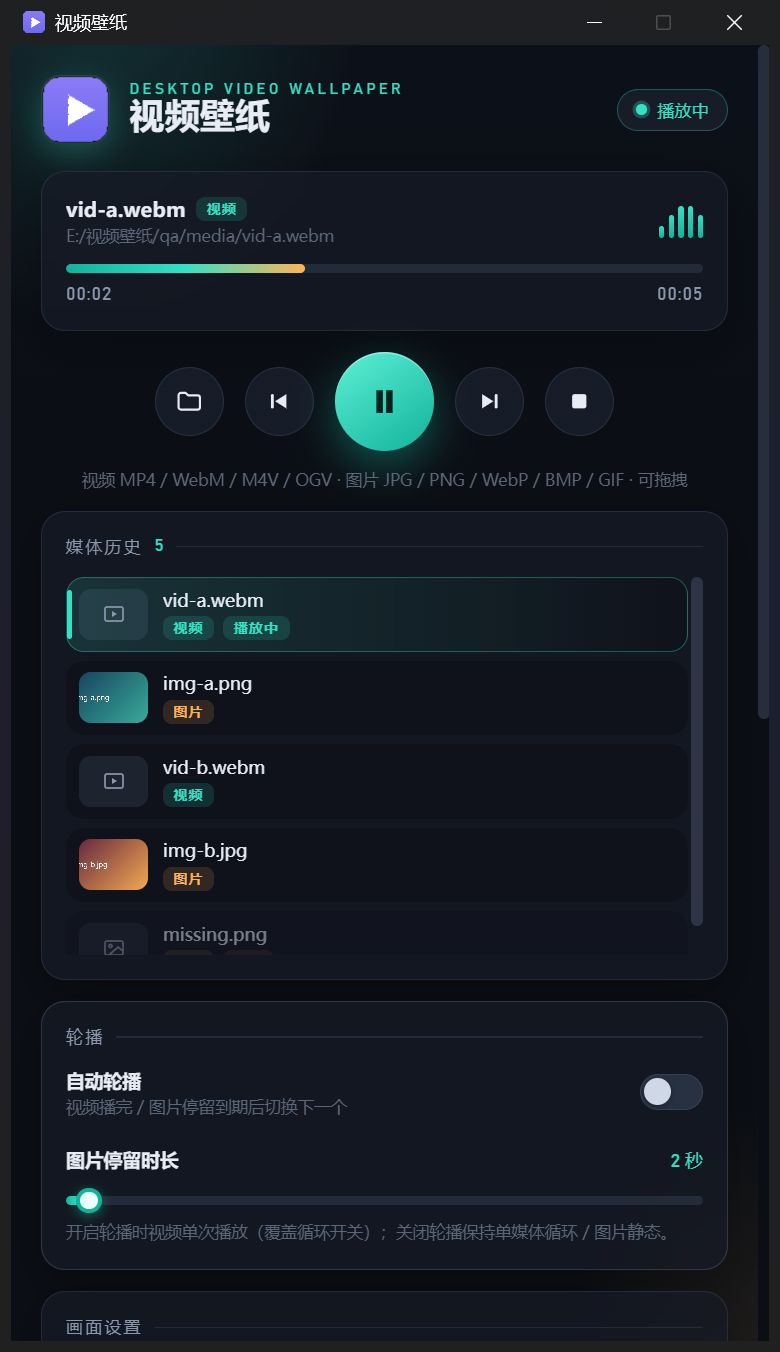
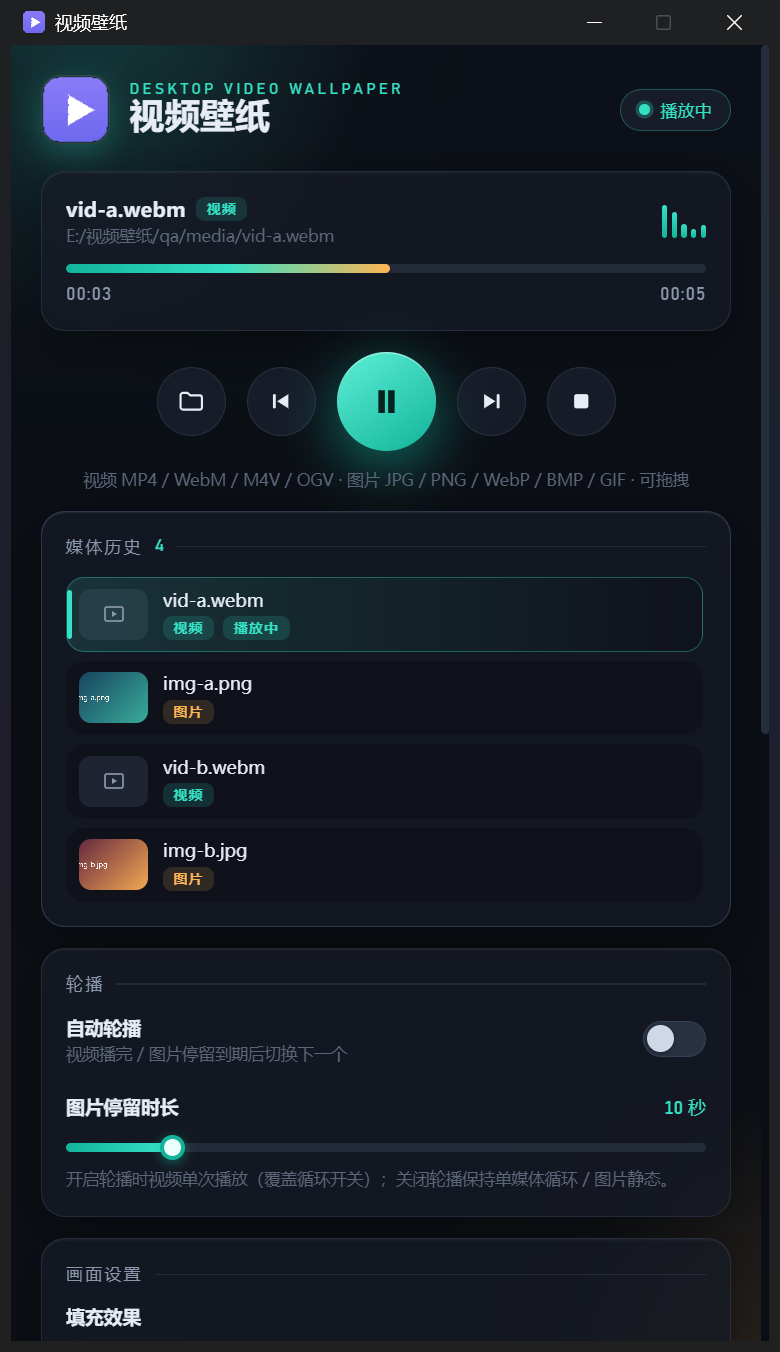
style: 控制面板 UI 润色（弹性动效 / 滑动分段指示 / 环境光）
- 分段选择改为滑动高亮指示块（spring 缓动），替换生硬的即时换色
- 卡片悬浮微抬升 + 内高光、历史项横移与缩略图微缩放、按钮弹性按压
- 播放键呼吸光晕、开关/滑杆/toast 弹性过渡、背景环境光缓慢漂移
- 修复非有限时长显示 Infinity:NaN（改为 --:-- 并 guarded 进度条）
- 更新 docs/screenshot.png 为无隐私数据的干净面板截图

diff --git a/src/control.html b/src/control.html
@@ -185,9 +185,56 @@
   footer b { color: var(--mut); font-weight: 600; }
   .drop-hint { text-align: center; color: var(--dim); font-size: 11px; margin: -6px 0 14px; }
   body.dragover::before { background: radial-gradient(60% 50% at 50% 40%, rgba(53,224,196,.28), transparent 70%); }
+
+  /* ---- 润色：弹性 / 层次 / 环境光 ---- */
+  :root { --spring: cubic-bezier(.34,1.56,.64,1); --ease: cubic-bezier(.2,.7,.2,1); }
+  .ambient { position: fixed; inset: -20%; z-index: -1; pointer-events: none; filter: blur(60px); opacity: .55;
+    background:
+      radial-gradient(38% 30% at 20% 12%, rgba(53,224,196,.14), transparent 70%),
+      radial-gradient(34% 28% at 82% 86%, rgba(255,180,84,.10), transparent 70%);
+    animation: drift 26s ease-in-out infinite alternate; }
+  @keyframes drift { from { transform: translate3d(-2%, -1%, 0) scale(1); } to { transform: translate3d(2%, 2%, 0) scale(1.06); } }
+
+  .card { box-shadow: 0 10px 30px rgba(0,0,0,.28), inset 0 1px 0 rgba(255,255,255,.045);
+    transition: border-color .3s var(--ease), transform .3s var(--ease), box-shadow .3s var(--ease); }
+  .card:hover { transform: translateY(-1px); box-shadow: 0 14px 36px rgba(0,0,0,.34), inset 0 1px 0 rgba(255,255,255,.06); }
+
+  .seg { position: relative; }
+  .seg-ind { position: absolute; top: 5px; bottom: 5px; left: 5px; width: 0; border-radius: 8px; z-index: 0;
+    background: linear-gradient(145deg, rgba(53,224,196,.22), rgba(18,179,154,.12));
+    box-shadow: inset 0 0 0 1px rgba(53,224,196,.35), 0 2px 10px rgba(18,179,154,.18);
+    transition: left .35s var(--spring), width .35s var(--spring); pointer-events: none; }
+  .seg button { position: relative; z-index: 1; transition: color .25s var(--ease); }
+  .seg button:hover { background: transparent; }
+  .seg button.on { background: transparent; box-shadow: none; }
+
+  .hitem { transition: background .25s var(--ease), border-color .25s var(--ease), opacity .25s, transform .25s var(--ease); }
+  .hitem:hover { transform: translateX(3px); }
+  .hthumb img { transition: transform .4s var(--ease); }
+  .hitem:hover .hthumb img { transform: scale(1.1); }
+  .hdel { transition: opacity .2s, color .2s, background .2s, transform .2s var(--spring); }
+  .hdel:active { transform: scale(.85); }
+
+  .ibtn, .play-btn { transition: transform .25s var(--spring), border-color .25s, box-shadow .25s, background .25s, filter .25s; }
+  .ibtn:active { transform: scale(.88); }
+  .play-btn:active { transform: scale(.92); }
+  body.is-playing .play-btn { animation: breathe 2.6s ease-in-out infinite; }
+  @keyframes breathe { 0%,100% { box-shadow: 0 10px 28px rgba(18,179,154,.42), inset 0 1px 0 rgba(255,255,255,.4); } 50% { box-shadow: 0 10px 40px rgba(18,179,154,.62), inset 0 1px 0 rgba(255,255,255,.4); } }
+
+  .switch .knob::after { transition: transform .35s var(--spring), background .25s; }
+  .switch input:checked + .knob { box-shadow: 0 0 14px rgba(53,224,196,.35); }
+
+  input[type=range]::-webkit-slider-thumb { transition: transform .25s var(--spring), box-shadow .25s; }
+  input[type=range]:active::-webkit-slider-thumb { transform: scale(1.25); box-shadow: 0 0 0 6px rgba(53,224,196,.15), 0 2px 8px rgba(18,179,154,.5); }
+
+  .toast { transition: transform .4s var(--spring), opacity .3s; }
+  .pill { transition: color .3s, border-color .3s; }
+  ::-webkit-scrollbar { width: 6px; }
+  :focus-visible { outline: 2px solid rgba(53,224,196,.5); outline-offset: 2px; border-radius: 6px; }
 </style>
 </head>
 <body>
+<div class="ambient"></div>
 <div class="wrap">
   <header class="rise" style="animation-delay:.02s">
     <img class="logo" src="../assets/icon.png" alt="">
@@ -251,6 +298,7 @@
     <div class="field">
       <div class="flabel"><b>填充效果</b></div>
       <div class="seg" id="fitseg">
+        <i class="seg-ind"></i>
         <button data-fit="cover"><svg viewBox="0 0 24 24" fill="none" stroke="currentColor" stroke-width="1.7"><rect x="3" y="5" width="18" height="14" rx="2"/><path d="M3 15l5-4 4 3 4-5 5 6"/></svg>填充</button>
         <button data-fit="contain"><svg viewBox="0 0 24 24" fill="none" stroke="currentColor" stroke-width="1.7"><rect x="3" y="5" width="18" height="14" rx="2"/><rect x="7" y="9" width="10" height="6" rx="1"/></svg>适应</button>
         <button data-fit="fill"><svg viewBox="0 0 24 24" fill="none" stroke="currentColor" stroke-width="1.7" stroke-linecap="round"><path d="M4 9V5h4M20 9V5h-4M4 15v4h4M20 15v4h-4"/></svg>拉伸</button>
@@ -277,6 +325,7 @@
     <div class="field">
       <div class="flabel"><b>清晰度 · 锐化</b><span id="shval">轻度</span></div>
       <div class="seg simple" id="shseg">
+        <i class="seg-ind"></i>
         <button data-sh="0">关闭</button><button data-sh="1">轻度</button><button data-sh="2">标准</button><button data-sh="3">强烈</button>
       </div>
     </div>
@@ -326,8 +375,16 @@ const IMG_EXT = ['jpg', 'jpeg', 'png', 'webp', 'bmp', 'gif'];
 function extType(p) { const e = (p || '').split('.').pop().toLowerCase(); return IMG_EXT.includes(e) ? 'image' : 'video'; }
 function baseName(p) { return (p || '').split(/[\\/]/).pop(); }
 function fileUrl(p) { const parts = p.replace(/\\/g, '/').split('/'); return 'file:///' + parts.map((x, i) => i === 0 ? x : encodeURIComponent(x)).join('/'); }
-function fmt(t) { t = Math.max(0, Math.floor(t || 0)); return String(Math.floor(t / 60)).padStart(2, '0') + ':' + String(t % 60).padStart(2, '0'); }
+function fmt(t) { if (!isFinite(t)) return '--:--'; t = Math.max(0, Math.floor(t)); return String(Math.floor(t / 60)).padStart(2, '0') + ':' + String(t % 60).padStart(2, '0'); }
 function paintRange(el) { const p = (el.value - el.min) / (el.max - el.min) * 100; el.style.setProperty('--p', p + '%'); }
+function placeSeg(seg) {
+  const ind = seg.querySelector('.seg-ind'); if (!ind) return;
+  const on = seg.querySelector('button.on');
+  if (!on) { ind.style.width = '0'; return; }
+  ind.style.left = on.offsetLeft + 'px';
+  ind.style.width = on.offsetWidth + 'px';
+}
+function placeAllSegs() { placeSeg($('fitseg')); placeSeg($('shseg')); }
 
 const VIDEO_ICO = '<svg viewBox="0 0 24 24" fill="none" stroke="currentColor" stroke-width="1.7"><rect x="3" y="5" width="18" height="14" rx="2"/><path d="M10 9l5 3-5 3z" fill="currentColor" stroke="none"/></svg>';
 const IMAGE_ICO = '<svg viewBox="0 0 24 24" fill="none" stroke="currentColor" stroke-width="1.7"><rect x="3" y="5" width="18" height="14" rx="2"/><circle cx="8.5" cy="10" r="1.5"/><path d="M21 15l-5-4-9 8"/></svg>';
@@ -393,6 +450,7 @@ function render(s) {
   pill.className = 'pill ' + (status === 'playing' ? 'playing' : status === 'paused' ? 'paused' : status === 'error' ? 'error' : '');
   pilltext.textContent = { playing: '播放中', paused: '已暂停', stopped: '已停止 · 桌面已恢复', error: '出错' }[status] || '空闲';
   npcard.classList.toggle('playing-card', status === 'playing' && ctype === 'video');
+  document.body.classList.toggle('is-playing', status === 'playing');
   $('primaryicon').innerHTML = status === 'playing' ? PAUSE : PLAY;
   $('primary').title = status === 'playing' ? '暂停' : (status === 'paused' ? '继续' : '开始');
   $('stop').disabled = status === 'stopped';
@@ -401,7 +459,7 @@ function render(s) {
     $('cur').textContent = '图片';
     $('dur').textContent = st.carousel ? '停留 ' + st.dwell + 's' : '静态';
   } else {
-    $('bar').style.width = ps.duration ? (ps.currentTime / ps.duration * 100) + '%' : '0';
+    $('bar').style.width = (isFinite(ps.duration) && ps.duration > 0) ? (ps.currentTime / ps.duration * 100) + '%' : '0';
     $('cur').textContent = fmt(ps.currentTime); $('dur').textContent = fmt(ps.duration);
   }
   $('err').style.display = ps.error ? 'block' : 'none'; $('err').textContent = ps.error ? '播放失败：' + ps.error : '';
@@ -415,6 +473,7 @@ function render(s) {
 
   document.querySelectorAll('#fitseg button').forEach(b => b.classList.toggle('on', b.dataset.fit === st.fit));
   document.querySelectorAll('#shseg button').forEach(b => b.classList.toggle('on', Number(b.dataset.sh) === st.sharpness));
+  placeAllSegs();
   $('shval').textContent = SH[st.sharpness] || '关闭';
   $('resolution').value = String(st.resolution);
   $('resval').textContent = st.resolution === 'auto' ? '自动' : st.resolution + '%';
@@ -455,6 +514,7 @@ document.addEventListener('drop', e => {
 });
 window.api.onState(render);
 window.api.getState().then(render);
+addEventListener('resize', placeAllSegs);
 </script>
 </body>
 </html>
